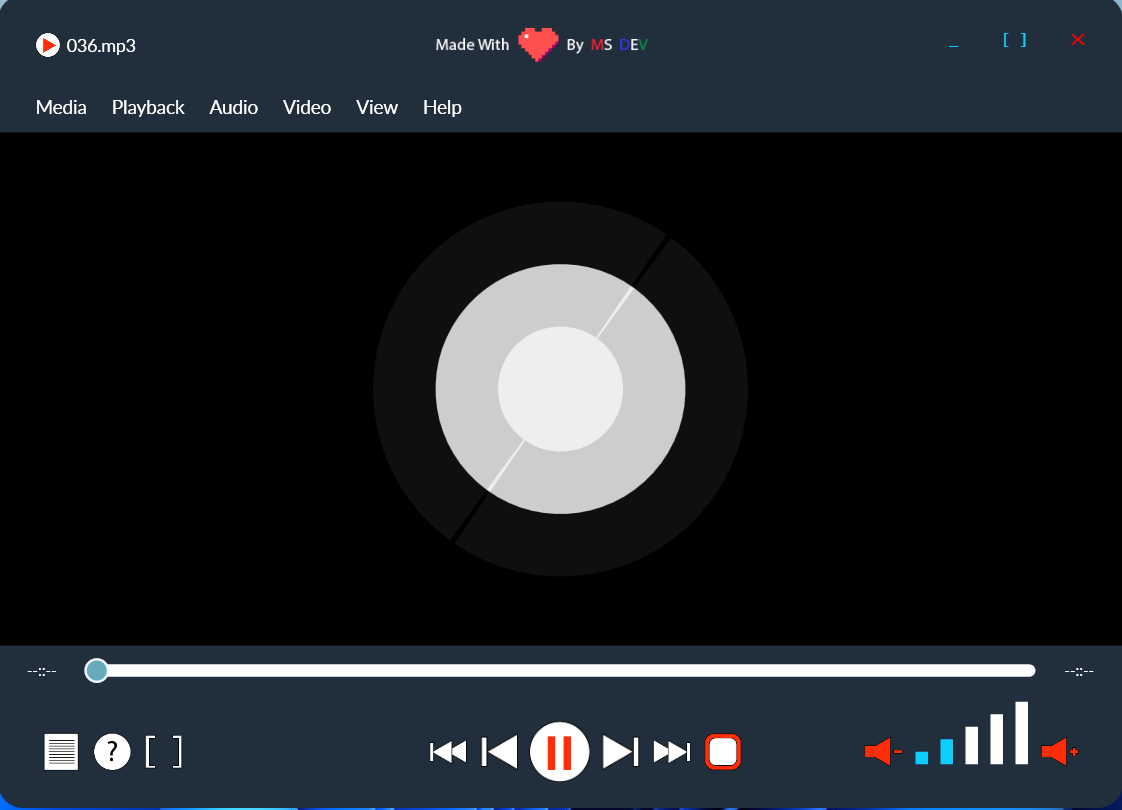
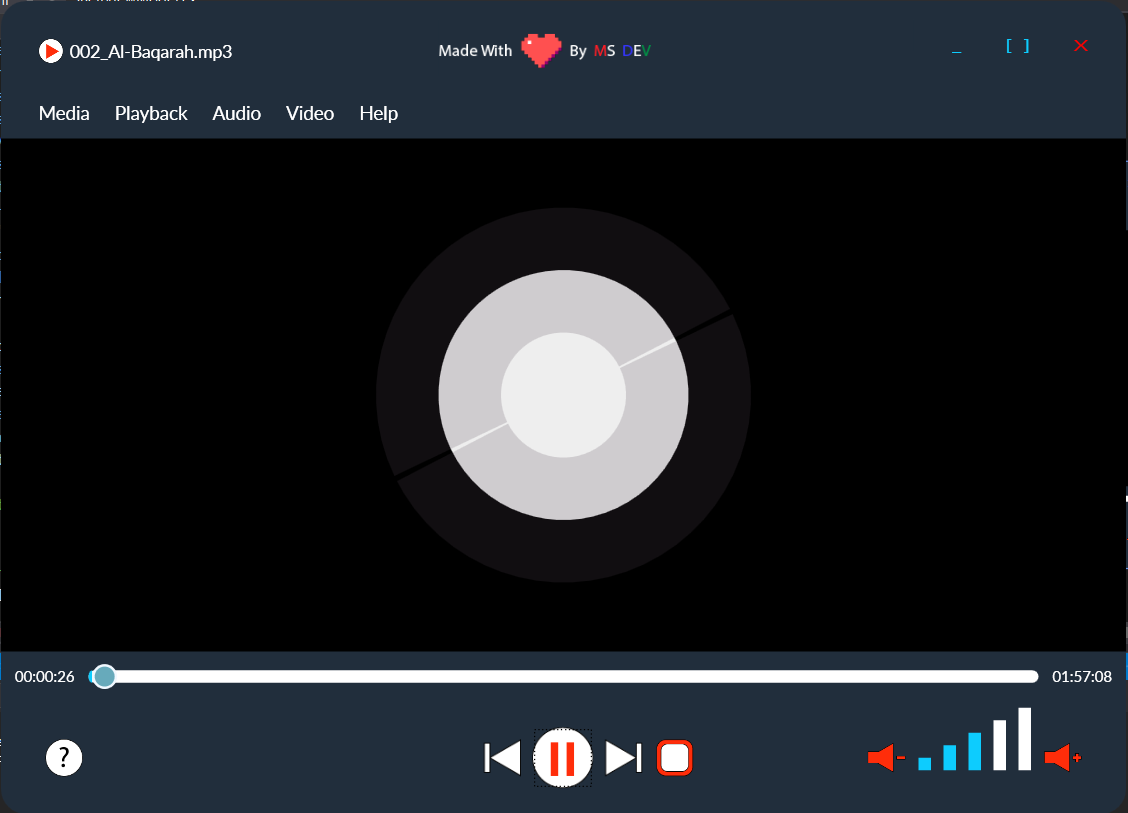
media menu items & playback section updated

diff --git a/MediaPlayer.Main/ShellView.xaml b/MediaPlayer.Main/ShellView.xaml
@@ -219,22 +219,11 @@
                     <!-- Media -->
                     <MenuItem Header="_Media" Template="{StaticResource MenuTop}">
                         <MenuItem Header="_Open File.." 
-                                  InputGestureText="Ctrl+O"
                                   Command="{Binding OpenFile_Click}"
                                   Icon="{StaticResource FileIcon}"
                                   Template="{StaticResource SubMenu}" />
-                        <MenuItem Header="_Open Multiple Files.."
-                                  InputGestureText="Ctrl+Shift+O"
-                                  Template="{StaticResource SubMenu}"
-                                  Icon="{StaticResource MultipleFilesIcon}" />
                         <Separator Template="{StaticResource MenuSep}" />
-                        <MenuItem Header="_Recently Played"
-                                  InputGestureText=">"
-                                  Template="{StaticResource SubMenu}"
-                                  Icon="{StaticResource RecentIcon}">
-                        </MenuItem>
                         <MenuItem Header="_Exit" 
-                                  InputGestureText="Ctrl+Q"
                                   Template="{StaticResource SubMenu}"
                                   Icon="{StaticResource ExitIcon}"
                                   Command="{Binding CloseWindow_Click}"/>
@@ -251,12 +240,6 @@
                                   Command="{Binding StopCommand}"
                                   Icon="{StaticResource StopIcon}" />
                         <Separator Template="{StaticResource MenuSep}" />
-                        <MenuItem Header="_Next" 
-                                  Template="{StaticResource SubMenu}"
-                                  Icon="{StaticResource NextIcon}"/>
-                        <MenuItem Header="_Prev" 
-                                  Template="{StaticResource SubMenu}"
-                                  Icon="{StaticResource PrevIcon}"/>
                         <MenuItem Header="_Forward" 
                                   Template="{StaticResource SubMenu}"
                                   Command="{Binding ForwardCommand}"
@@ -286,28 +269,14 @@
                     <!-- Video -->
                     <MenuItem Header="_Video" Template="{StaticResource MenuTop}">
                         <MenuItem Header="_Fullscreen" 
-                                  InputGestureText="F11"
                                   Template="{StaticResource SubMenu}"
                                   Icon="{StaticResource FullscreenIcon}"/>
                     </MenuItem>
 
-                    <!--- View -->
-                    <MenuItem Header="_View" Template="{StaticResource MenuTop}">
-                        <MenuItem Header="_Playlist" 
-                                  Template="{StaticResource SubMenu}"
-                                  Icon="{StaticResource PlaylistIcon}"/>
-                    </MenuItem>
-
                     <!-- Help -->
                     <MenuItem Header="_Help" Template="{StaticResource MenuTop}">
-                        <MenuItem Header="_Shortcuts" 
-                                    InputGestureText="Ctrl+H"
-                                  Template="{StaticResource SubMenu}"
-                                  Command="{Binding HelperWindowShell}"
-                                  Icon="{StaticResource HelpIcon}"/>
                         <MenuItem Header="_About" 
-                                  Command="{Binding AboutWindowShell}"
-                                  InputGestureText="Alt+A"
+                                  Command="{Binding HelperWindowShell}"
                                   Template="{StaticResource SubMenu}"
                                   Icon="{StaticResource HelpIcon}" />
                     </MenuItem>
@@ -382,15 +351,9 @@
 
                 <!--- Info control -->
                 <StackPanel Grid.Column="0" Orientation="Horizontal">
-                    <Button Style="{StaticResource PlayBackSectionButtons}">
-                        <Image Source="{StaticResource PlaylistIcon}" />
-                    </Button>
                     <Button Style="{StaticResource PlayBackSectionButtons}"
                             Command="{Binding HelperWindowShell}">
                         <Image Source="{StaticResource HelpIcon}" />
-                    </Button>
-                    <Button Style="{StaticResource PlayBackSectionButtons}">
-                        <Image Source="{StaticResource FullscreenIcon}" />
                     </Button>
                 </StackPanel>
 
@@ -398,9 +361,6 @@
                 <StackPanel Grid.Column="1" 
                             HorizontalAlignment="Center" 
                             Orientation="Horizontal">
-                    <Button Style="{StaticResource PlayBackSectionButtons}">
-                        <Image Source="{StaticResource PrevIcon}" />
-                    </Button>
                     <Button Style="{StaticResource PlayBackSectionButtons}"
                             Command="{Binding RewindCommand}">
                         <Image Source="{StaticResource BackwardIcon}" />
@@ -413,9 +373,6 @@
                     <Button Style="{StaticResource PlayBackSectionButtons}"
                             Command="{Binding ForwardCommand}">
                         <Image Source="{StaticResource ForwardIcon}" />
-                    </Button>
-                    <Button Style="{StaticResource PlayBackSectionButtons}">
-                        <Image Source="{StaticResource NextIcon}" />
                     </Button>
                     <Button
                         Command="{Binding StopCommand}"

diff --git a/MediaPlayer.Main/ViewModel/ShellViewModel.cs b/MediaPlayer.Main/ViewModel/ShellViewModel.cs
@@ -909,19 +909,6 @@ namespace MediaPlayer
             }
         }
 
-        private ICommand _AboutWindowShell { get; set; }
-
-        public ICommand AboutWindowShell
-        {
-            get
-            {
-                return _AboutWindowShell ?? (_AboutWindowShell = new RelayCommand<object>(x =>
-                {
-                    MessageBox.Show("Display about window");
-                }));
-            }
-        }
-
         #endregion
 
 

diff --git a/README.md b/README.md
@@ -16,17 +16,12 @@ Win7 - Win11.
 
 - Audio Player
 - Video Player
-- Playlist
 - Media file dialogs
-- Recently played 
 - Playback control buttons
 - Audio controls
-- Helper buttons
-- Keyboard shortcuts
-- Media progress & progress sliders
+- Media progress
 - Error Dialog
 - Warning Dialog
-- Helper Dialog
 - About Dialog
 
 ## Technologies/Dependencies used
@@ -46,40 +41,6 @@ Win7 - Win11.
 - Adobe XD (Mockup Design)
 - Gitbash & Github (Version control)
 
-## User Manual 
-
-## Keyboard Shortcuts
-
-### Media: 
-
-- Ctrl+O : Opens a fiel dialog 
-- Ctrl+Shift+O : Opens a multiple file dialog
-- Ctrl+Q : Close Window
-
-### Playback: 
-
-- Space : Pauses/Plays media 
-- Ctrl+S : Stops media 
-- Left Arrow : Rewinds media
-- Right Arrow : Forwards media
-- Ctrl+N : Plays next media file
-- Ctrl+P : Plays previous media file
-
-### Audio: 
-
-- Up Arrow : Increase volume
-- Down Arrow : Decreases volume 
-- M : Mutes media 
-
-### Video 
-
-- F11 : Fullscreen mode
-
-### Help
-
-- Ctrl+H : Display help window
-- Alt+A : Display about window 
-
 ## Screenshots
 
 ### Main window 
@@ -93,11 +54,11 @@ Win7 - Win11.
 
 
 ## Contributors
-Muhammed Suwaneh, Eskişehir Osmangazi University, 2021
+Muhammed Suwaneh, Eskişehir Osmangazi University, 2022
 
 ## Version 
 1.0.0
 
 ## Licenced 
-Under [`MIT`](LICENSE) Copyright 2021  
+Under [`MIT`](LICENSE) Copyright 2022  
 
